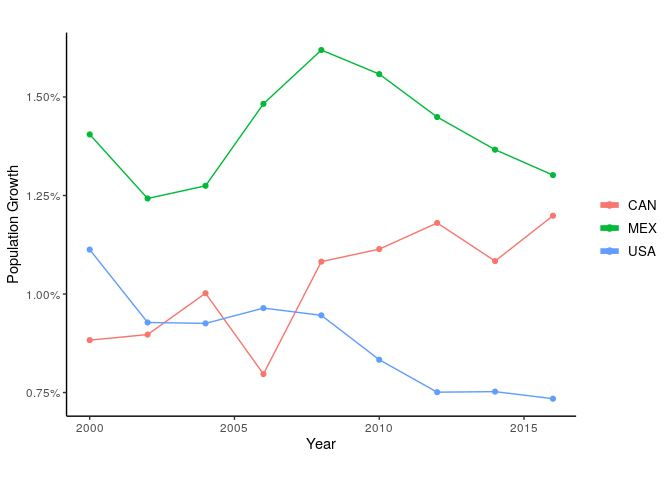
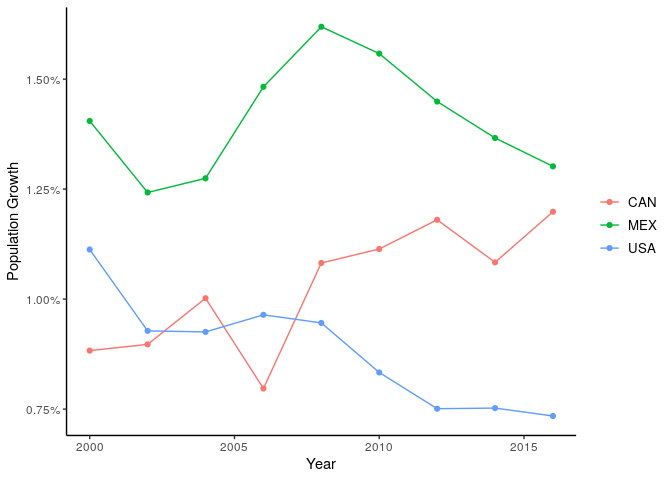
ggplotmo

diff --git a/_drafts/Essential-DataScience-R.md b/_drafts/Essential-DataScience-R.md
@@ -199,7 +199,7 @@ joined <- mpg_stack_horz %>%
 
 ## Converting Long to Wide Format
 
-Let’s take a look at the ‘us\_rent\_income’ dataset from the [tidyr](https://tidyr.tidyverse.org) package:
+Let’s take a look at the [us\_rent\_income](https://tidyr.tidyverse.org/reference/us_rent_income.html) dataset from the [tidyr](https://tidyr.tidyverse.org) package:
 
 | GEOID | NAME    | variable | estimate | moe |
 | :---- | :------ | :------- | -------: | --: |
@@ -263,15 +263,17 @@ wb_pop <- world_bank_pop %>%
 
 ## Visualizations
 
-Now that we have gone through the trouble of manipulating some datasets, we’ll make a few visualizations with ggplot2. Ggplot graphs are constructed by adding together a series of ggplot functions with the “+” operator.
+Now that we have gone through the trouble of manipulating some datasets, we’ll make a few visualizations with ggplot2. Ggplot graphs are constructed by adding together a series of ggplot functions with the “+” operator. You can refer to [ggplot’s documentation](https://ggplot2.tidyverse.org/reference/) for more information, but here is a quick overview:
 
-  - The ggplot function is used to specify the dataset and variables. Variables can alternatively be defined in geom functions.
-  - Atleast one geom function such as geom\_histogram, geom\_point, or geom\_line is included which defines what the graph will look like.
-  - The theme of the chart can be modified using preset themes such as theme\_bw and theme\_classic and further customized using the theme function.
+  - The [ggplot](https://ggplot2.tidyverse.org/reference/ggplot.html) function initializes a graph. The [aes](https://ggplot2.tidyverse.org/reference/aes.html) (aesthetic mappings) function controls which variables are used in the plot.  
+  - Atleast one geom (geometric object) function such as geom\_histogram, geom\_point, or geom\_line is included which defines what the graph will look like.
+  - The theme of the chart can be modified using [preset themes such as theme\_bw and theme\_classic](https://ggplot2.tidyverse.org/reference/ggtheme.html) and further customized using the [theme function](https://ggplot2.tidyverse.org/reference/theme.html).
   - In ggplot, the “color” parameter is used for setting the color of lines while the “fill” parameter controls the color of areas.
-  - To save a plot, use the ggsave function
+  - To save a plot to a file, use the [ggsave](https://ggplot2.tidyverse.org/reference/ggsave.html) function.
 
 ### Histograms
+
+One of the simplest
 
 ``` r
 # Histogram with autobinning based on gender
@@ -296,44 +298,40 @@ xlab('Highway mpg') + ylab('Count')
 # the reorder command orders our bars in order of descending height
 ggplot(data = mpg_stats,
     aes(x = reorder(class_c,-mean_hwy), y = mean_hwy)) +
-geom_bar(stat = 'identity',position = 'dodge',color = 'black') +
-scale_y_continuous(expand = expand_scale(mult = c(0, .1))) +    # plot margins
-geom_text(aes(label = round(mean_hwy)), vjust = -0.5) +  # labelling
-theme_bw() +
+geom_bar(stat = 'identity', color = 'black') +
+scale_y_continuous(expand = expand_scale(mult = c(0, .1))) + # expand top margin
+geom_text(aes(label = round(mean_hwy)), vjust = -0.5) +  # label bars
+theme_bw() + 
+xlab('') + ylab('') + # no axis labels
 theme(legend.position = "none", # no legend (in case we want to use fill)
-  panel.grid = element_blank()) + # turn off grid
-labs(title = '') +
-xlab('') +
-ylab('')
+  panel.grid = element_blank()) # turn off grid
 ```
 
 ![](/rmd_images/Essential-DataScience-R/unnamed-chunk-29-1.png)<!-- -->
 
 ### Line Charts
 
-We divide the `value` field by 100 since to convert it to a decimal percentage value. SP.POP.GROW is the population growth (%).
+Here we create a line graph with the SP.POP.GROW indicator from the “wb\_pop” dataset we created earlier based on world bank data. SP.POP.GROW is the percent population growth and we divide its value (in the ‘value’ column) by 100 to convert it to a decimal percentage value.
 
 ``` r
-ggplot(wb_pop %>% filter(country %in% c("USA","CAN","MEX") & indicator == "SP.POP.GROW"),
-          aes(x = year,y = value/100,color = country)) +
-  theme_classic() + geom_line() + geom_point() + # lines and points
+ggplot(wb_pop %>% filter(country %in% c("USA","CAN","MEX") & indicator == "SP.POP.GROW"), 
+       aes(x = year,y = value/100,color = country)) +
+theme_classic() + 
+  geom_line() + geom_point() + # lines and points
 scale_x_continuous(expand = expand_scale(mult = c(.05, .05))) +
 scale_y_continuous(labels = scales::percent) + 
-labs(title = '',caption = '') +
-theme(legend.title = element_blank(),
+theme(legend.title = element_blank(), # suppress legend title
       panel.grid.minor.x = element_blank(),
       legend.text = element_text(size = 10),
       legend.position = 'right') +
-xlab('Year') + ylab('Population Growth') +
-# make legend items bigger
-guides(colour = guide_legend(override.aes = list(size = 2))) 
+xlab('Year') + ylab('Population Growth')
 ```
 
 ![](/rmd_images/Essential-DataScience-R/line-1.png)<!-- -->
 
 ### Lollipop Charts
 
-Lollipop charts can be an attractive alternative to bar charts. coord\_flip is used to orient the chart horizontally instead of vertically.
+Lollipop charts can be an attractive alternative to bar charts. We construct one here using [geom\_segment](https://ggplot2.tidyverse.org/reference/geom_segment.html) and [geom\_point](https://ggplot2.tidyverse.org/reference/geom_point.html). The [coord\_flip](https://ggplot2.tidyverse.org/reference/coord_flip.html) function is used to orient the chart horizontally instead of vertically.
 
 ``` r
   ggplot(data = col_ratio %>% arrange(desc(rent)) %>% head(15), aes(x = NAME, y = rent) ) +
@@ -357,7 +355,7 @@ Lollipop charts can be an attractive alternative to bar charts. coord\_flip is u
 
 ## References
 
-Here are a few functions and packages you may find useful for further reference:
+Here are a few functions and packages you may find useful for reference:
 
   - For importing data from files, refer to the [readr](https://readr.tidyverse.org/) (for CSV and text files) or [readxl](https://readxl.tidyverse.org/) (for excel spreadsheets) packages.
   - To coerce a column into a different format, you can use the as.numeric, as.character, as.Date, and as.factor functions (from base R). For more functions to work with date and datetime data see the [lubridate](https://lubridate.tidyverse.org/reference/index.html) package, for strings use the [stringr](https://stringr.tidyverse.org/) package, and for manipulating factors see the [forcats](https://forcats.tidyverse.org/) package.
